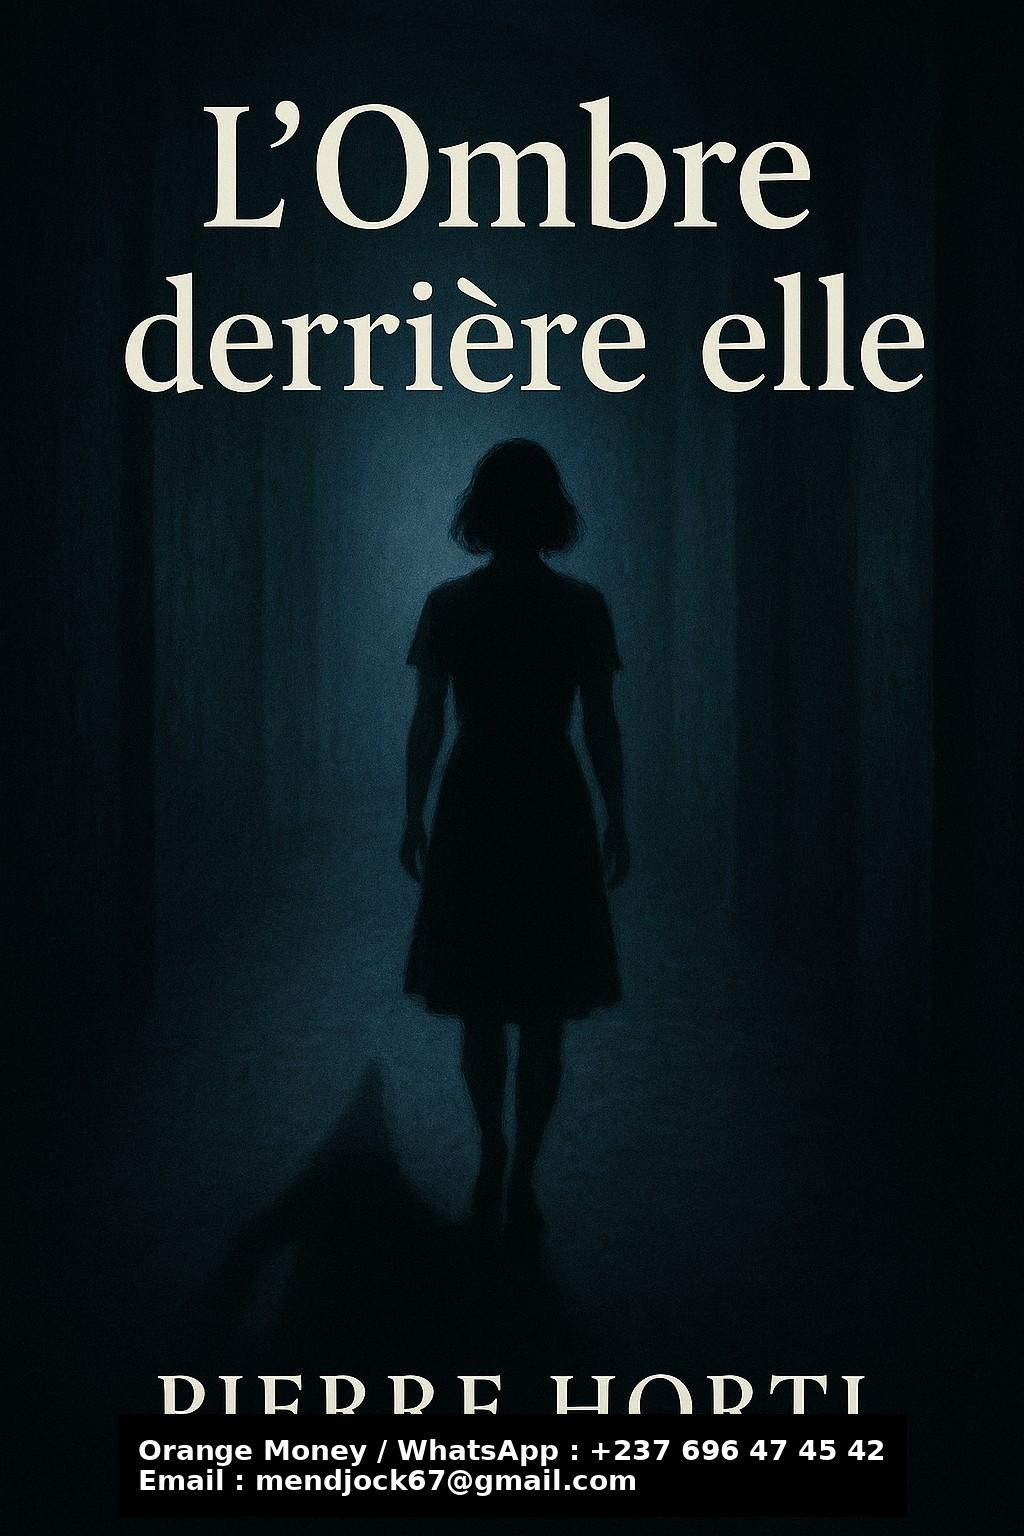
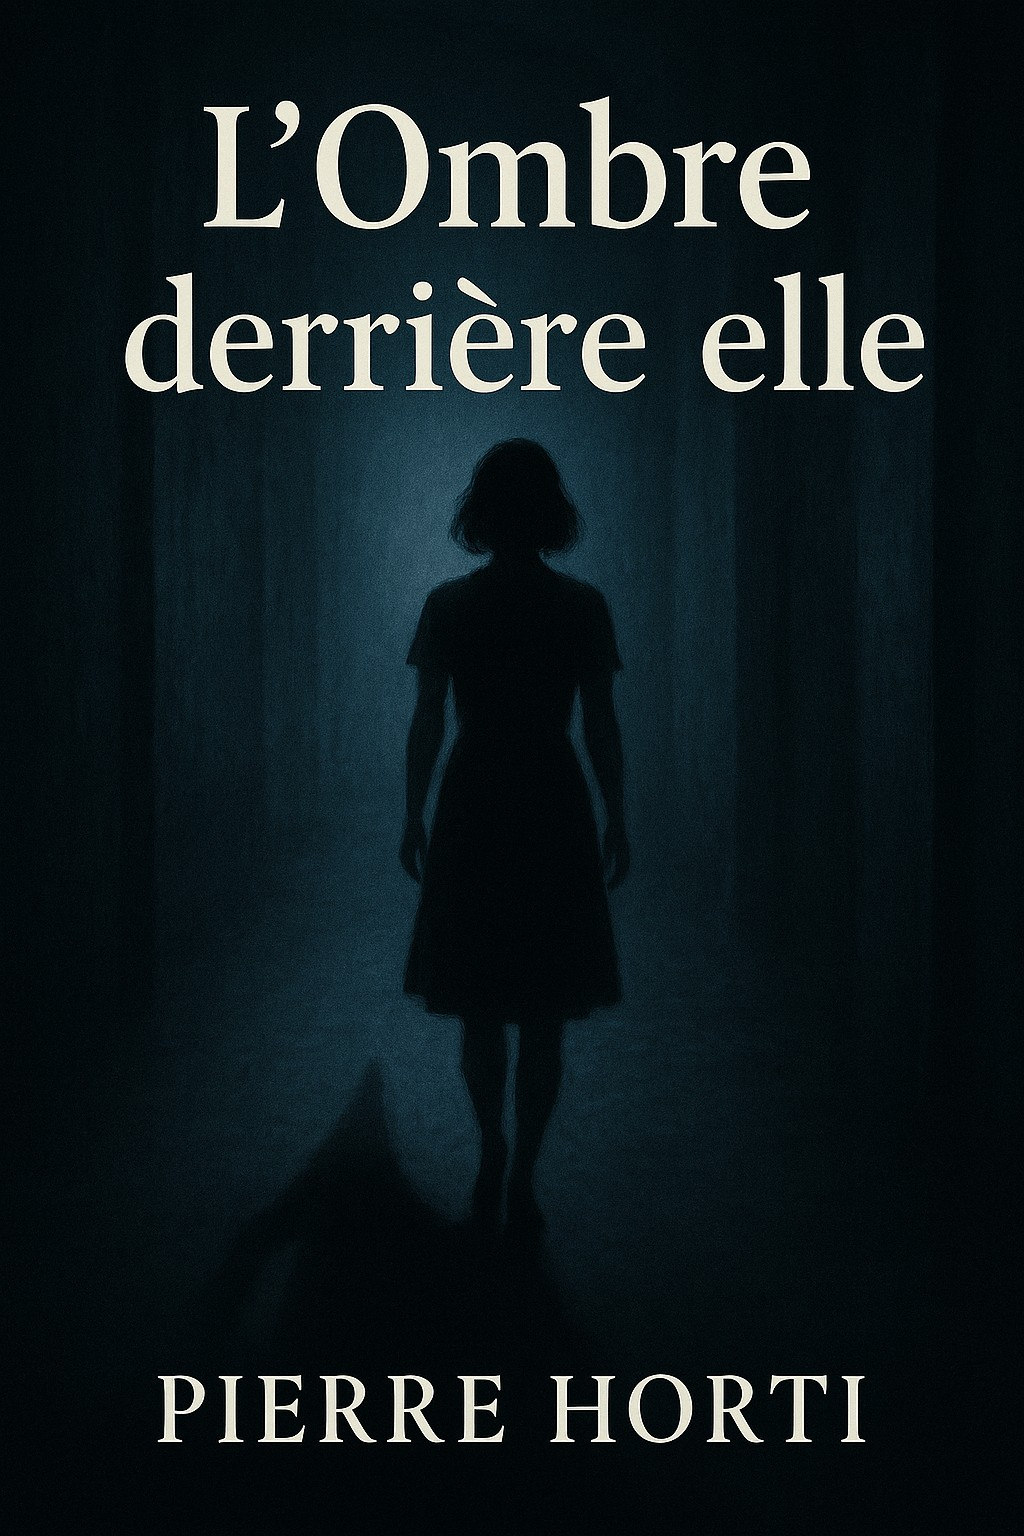
Add files via upload

Changed region(s): [[0.125, 0.9062, 0.875, 0.9688]]

diff --git a/index.html b/index.html
@@ -2,27 +2,106 @@
 <!DOCTYPE html>
 <html lang="fr">
 <head>
-  <meta charset="UTF-8">
-  <title>L’Ombre derrière elle – Téléchargement</title>
+  <meta charset="UTF-8" />
+  <meta name="viewport" content="width=device-width, initial-scale=1.0" />
+  <title>L'Ombre Derrière Elle - Pierre Horti</title>
   <style>
-    body { font-family: Arial, sans-serif; text-align: center; padding: 50px; background-color: #f4f4f4; }
-    .button {
-      background-color: #333;
-      color: white;
-      padding: 15px 30px;
+    body {
+      margin: 0;
+      font-family: 'Segoe UI', sans-serif;
+      background: #f9f9f9;
+      color: #222;
+    }
+    .container {
+      max-width: 700px;
+      margin: auto;
+      padding: 20px;
+    }
+    .cover {
+      width: 100%;
+      border-radius: 12px;
+      box-shadow: 0 4px 10px rgba(0, 0, 0, 0.2);
+    }
+    h1 {
       text-align: center;
-      font-size: 16px;
-      margin: 20px;
-      border: none;
-      border-radius: 5px;
+      font-size: 2em;
+      margin-top: 20px;
+    }
+    .author {
+      text-align: center;
+      font-style: italic;
+      margin-bottom: 20px;
+    }
+    .price {
+      text-align: center;
+      font-size: 1.3em;
+      color: #b58900;
+      margin-bottom: 10px;
+    }
+    .buttons {
+      text-align: center;
+      margin: 20px 0;
+    }
+    .btn {
+      display: inline-block;
+      margin: 10px;
+      padding: 12px 24px;
+      background-color: #222;
+      color: #fff;
       text-decoration: none;
+      border-radius: 30px;
+      font-weight: bold;
+    }
+    .section {
+      margin-top: 30px;
+      background: #fff;
+      padding: 20px;
+      border-radius: 8px;
+      box-shadow: 0 2px 6px rgba(0, 0, 0, 0.05);
+    }
+    footer {
+      text-align: center;
+      font-size: 0.9em;
+      color: #777;
+      margin: 40px 0 10px;
     }
   </style>
 </head>
 <body>
-  <h1>L’Ombre derrière elle</h1>
-  <h3>Un roman psychologique de Pierre Horti</h3>
-  <p>Téléchargez gratuitement le livre au format ePub :</p>
-  <a href="Lombre_derriere_elle.epub" class="button" download>Télécharger l’ePub</a>
+  <div class="container">
+    <img src="affiche-lombre.jpg" alt="L'Ombre derrière elle" class="cover" />
+    <h1>L'Ombre derrière elle</h1>
+    <div class="author">par Pierre Horti</div>
+    <div class="price">Disponible – 1 000 FCFA</div>
+
+    <div class="buttons">
+      <a class="btn" href="https://wa.me/237696474542">WhatsApp</a>
+      <a class="btn" href="mailto:mendjock67@gmail.com">Contact Email</a>
+    </div>
+
+    <div class="section">
+      <h2>Résumé</h2>
+      <p>Un homme, une vérité, une nuit. Eric croyait connaître la femme qu’il aimait… jusqu’à ce qu’elle prononce cette phrase :</p>
+      <p><em>« J’ai tué ta première femme. »</em></p>
+      <p>Dès lors, plus rien ne sera jamais comme avant. Un roman haletant, où l’amour ne protège pas, il révèle. Et parfois, l’ombre… ne disparaît pas.</p>
+    </div>
+
+    <div class="section">
+      <h2>Extrait</h2>
+      <p>Téléchargez un extrait gratuit au format PDF :</p>
+      <p style="text-align:center;"><a href="Extrait_Lombre_derriere_elle_A5.pdf" class="btn">Télécharger l'extrait</a></p>
+    </div>
+
+    <div class="section">
+      <h2>Comment acheter ?</h2>
+      <p>1. Payez 1 000 FCFA par <strong>Orange Money</strong> au <strong>+237 696 47 45 42</strong></p>
+      <p>2. Envoyez votre preuve de paiement via WhatsApp.</p>
+      <p>3. Vous recevrez le livre complet par message dans la minute.</p>
+    </div>
+
+    <footer>
+      © 2025 Pierre Horti — Tous droits réservés
+    </footer>
+  </div>
 </body>
 </html>
